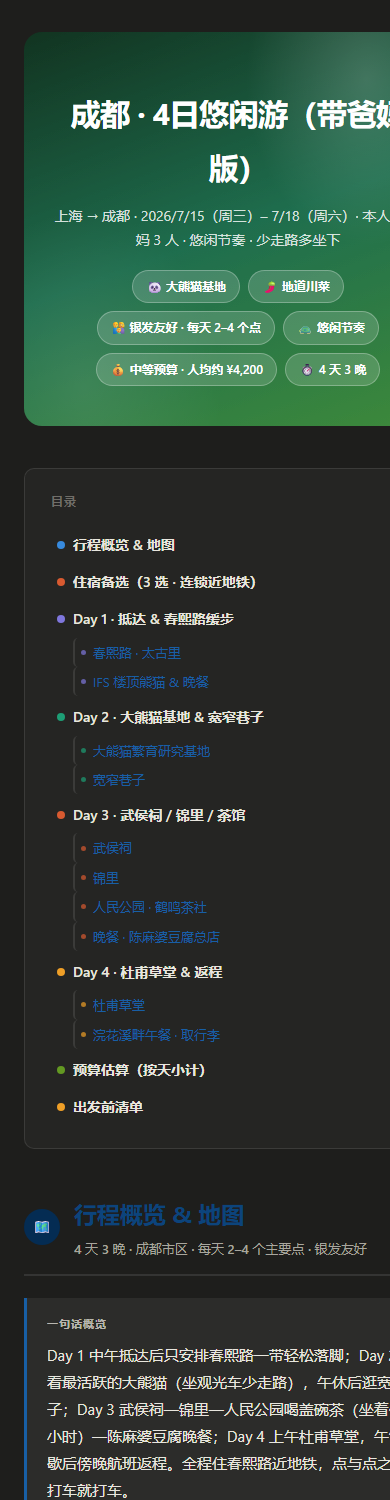
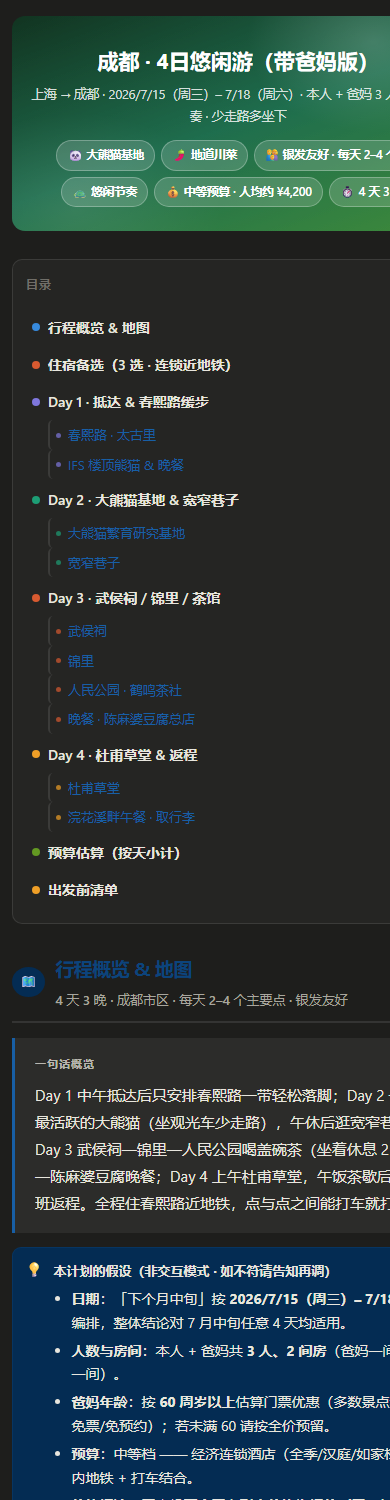
手机端适配: 640px 断点移动块 + 校验器第 7 检查 (用户实机反馈)
User tested on a real phone: the page rendered as raw desktop layout.
Only two tiny media rules existed (map height, two-col). Fix:

- design-system.md + example: canonical @user(max-width:640px) block —
  tighter paddings/typography, transport routes stack vertically with a
  ↓ connector instead of the horizontal arrow line, price-compare rows
  stack, floating nav becomes a full-width bottom sheet, and the real
  page-widening culprit fixed: .tpill/.chip/.h-rating were
  white-space:nowrap, so a long transit pill forced the whole page to
  ~480px+ on a 390px phone. Overflow hardening included.
- Verified live in a 390px same-origin iframe (Chrome): zero horizontal
  overflow, header/page rects within bounds. Headless 390px full-page
  renders captured for README.
- check_html.py check #7: viewport meta + a >=600px-breakpoint media
  block with >=10 rules (thin 580px-era blocks rejected). Replay: the
  new example passes; all historical artifacts flip to FAIL on mobile
  adaptation — the regression is now structurally caught.

diff --git a/examples/成都4日游行程.html b/examples/成都4日游行程.html
@@ -357,6 +357,53 @@ details[open] summary::before{transform:rotate(90deg);}
   text-transform:uppercase;letter-spacing:0.08em;
   padding:0 14px 5px;border-bottom:1px solid var(--border);margin-bottom:3px;
 }
+
+/* ── Mobile adaptation (≤640px) ── phones get tighter spacing, stacked transport
+   routes, wrapped price rows and a full-width floating nav. Required on every trip page;
+   check_html.py fails the build without it. */
+@media(max-width:640px){
+  .page{padding:16px 12px 76px;}
+  body>*:not(.page){padding-left:12px;padding-right:12px;}
+  .header{padding:30px 16px 24px;margin-bottom:28px;border-radius:13px;}
+  .header h1{font-size:21px;letter-spacing:0;line-height:1.35;}
+  .header .subtitle{font-size:12.5px;margin-bottom:13px;}
+  .tags{gap:6px;}
+  .tag{padding:4px 10px;font-size:11.5px;}
+  .toc{padding:14px 13px;margin-bottom:28px;}
+  .section{margin-bottom:38px;}
+  .section-header{gap:10px;margin-bottom:15px;padding-bottom:10px;}
+  .section-num{min-width:30px;height:30px;font-size:12.5px;}
+  .section h2{font-size:18.5px;}
+  .card{padding:14px 13px;}
+  .card h3{font-size:15.5px;}
+  .callout{padding:11px 11px;gap:9px;margin:11px 0;}
+  table{font-size:12.5px;}
+  th,td{padding:7px 7px;}
+  .poi .poi-head{gap:8px;}
+  .transport{padding:13px 13px;}
+  .transport .tr-route{flex-direction:column;align-items:flex-start;gap:3px;}
+  .transport .tr-node{display:flex;align-items:baseline;gap:8px;text-align:left;min-width:0;}
+  .transport .tr-node .t-time{font-size:16px;}
+  .transport .tr-arrow{flex:none;width:auto;text-align:left;border:none;padding-left:24px;}
+  .transport .tr-arrow span{position:static;background:none;padding:0;}
+  .transport .tr-arrow span::before{content:"↓ ";}
+  .pc-row{flex-direction:column;align-items:flex-start;gap:1px;padding:6px 0;
+    border-bottom:1px dotted var(--border);}
+  .pc-row:last-child{border-bottom:none;}
+  .transit{flex-wrap:wrap;}
+  .hotel{padding:12px 11px;}
+  .hotel .h-rating{margin-left:0;width:100%;}
+  .checklist{padding:11px 13px;}
+  #map{height:320px;}
+  #nav-btn{right:12px;bottom:12px;}
+  #nav-panel{left:12px;right:12px;width:auto;bottom:54px;max-height:55vh;}
+  html,body{max-width:100%;overflow-x:hidden;}
+  .transit .tpill,.chip,.hotel .h-rating,.meta-chip{white-space:normal;}
+  .transit{margin-left:0;margin-right:0;}
+  .header,.toc,.card,.callout,.transport,.hotel,.poi,.checklist,.day-meta,.tags,.price-compare{
+    max-width:100%;box-sizing:border-box;}
+  .header *,.card *,.callout *{max-width:100%;box-sizing:border-box;overflow-wrap:break-word;}
+}
 </style>
 </head>
 <body>

diff --git a/scripts/check_html.py b/scripts/check_html.py
@@ -19,6 +19,9 @@ Checks (each FAIL must be fixed before presenting the file):
                                table, and a .checklist wired to localStorage.
                                Step 5 being silently dropped is the skill's
                                most common real-run failure — this catches it.
+  7. Mobile adaptation         a viewport meta tag AND a max-width media
+                               query block (phones must not get the raw
+                               desktop layout).
 
 Exit code: 0 = clean, 1 = one or more FAILs.  Pure standard library.
 """
@@ -140,6 +143,20 @@ def check_travel_components(html):
     return problems
 
 
+def check_mobile(html):
+    problems = []
+    if not re.search(r'<meta\s+name="viewport"', html):
+        problems.append('no <meta name="viewport"> tag — phones will render the desktop layout zoomed out')
+    m = re.search(r"@media\s*\(\s*max-width\s*:\s*6\d{2}px\s*\)\s*\{(.*?)\n\}", html, re.S)
+    if not m:
+        problems.append("no phone-breakpoint @media (max-width:6xxpx) block — page is not adapted "
+                        "for narrow screens (the design system ships a canonical 640px block)")
+    elif m.group(1).count("{") < 10:
+        problems.append("the max-width @media block is too thin (<10 rules) — copy the full mobile "
+                        "block from references/design-system.md")
+    return problems
+
+
 def check_self_contained(html):
     problems = []
     for m in re.finditer(r'<img\b[^>]*\bsrc\s*=\s*"(https?://[^"]+)"', html, re.I):
@@ -174,6 +191,7 @@ def run(path):
         ("no leftover KaTeX", check_no_katex(html)),
         ("self-contained", check_self_contained(html)),
         ("travel components (hotel/budget/checklist)", check_travel_components(html)),
+        ("mobile adaptation (viewport + media query)", check_mobile(html)),
     ]:
         if probs:
             fails += 1

diff --git a/references/design-system.md b/references/design-system.md
@@ -431,6 +431,53 @@ Fill in the `TRIP` JS object (map data), the TOC, and the day sections. Keep the
 <script>if('scrollRestoration' in history) history.scrollRestoration = 'manual';</script>
 <style>
 /* PASTE FULL CSS HERE */
+
+/* ── Mobile adaptation (≤640px) ── phones get tighter spacing, stacked transport
+   routes, wrapped price rows and a full-width floating nav. Required on every trip page;
+   check_html.py fails the build without it. */
+@media(max-width:640px){
+  .page{padding:16px 12px 76px;}
+  body>*:not(.page){padding-left:12px;padding-right:12px;}
+  .header{padding:30px 16px 24px;margin-bottom:28px;border-radius:13px;}
+  .header h1{font-size:21px;letter-spacing:0;line-height:1.35;}
+  .header .subtitle{font-size:12.5px;margin-bottom:13px;}
+  .tags{gap:6px;}
+  .tag{padding:4px 10px;font-size:11.5px;}
+  .toc{padding:14px 13px;margin-bottom:28px;}
+  .section{margin-bottom:38px;}
+  .section-header{gap:10px;margin-bottom:15px;padding-bottom:10px;}
+  .section-num{min-width:30px;height:30px;font-size:12.5px;}
+  .section h2{font-size:18.5px;}
+  .card{padding:14px 13px;}
+  .card h3{font-size:15.5px;}
+  .callout{padding:11px 11px;gap:9px;margin:11px 0;}
+  table{font-size:12.5px;}
+  th,td{padding:7px 7px;}
+  .poi .poi-head{gap:8px;}
+  .transport{padding:13px 13px;}
+  .transport .tr-route{flex-direction:column;align-items:flex-start;gap:3px;}
+  .transport .tr-node{display:flex;align-items:baseline;gap:8px;text-align:left;min-width:0;}
+  .transport .tr-node .t-time{font-size:16px;}
+  .transport .tr-arrow{flex:none;width:auto;text-align:left;border:none;padding-left:24px;}
+  .transport .tr-arrow span{position:static;background:none;padding:0;}
+  .transport .tr-arrow span::before{content:"↓ ";}
+  .pc-row{flex-direction:column;align-items:flex-start;gap:1px;padding:6px 0;
+    border-bottom:1px dotted var(--border);}
+  .pc-row:last-child{border-bottom:none;}
+  .transit{flex-wrap:wrap;}
+  .hotel{padding:12px 11px;}
+  .hotel .h-rating{margin-left:0;width:100%;}
+  .checklist{padding:11px 13px;}
+  #map{height:320px;}
+  #nav-btn{right:12px;bottom:12px;}
+  #nav-panel{left:12px;right:12px;width:auto;bottom:54px;max-height:55vh;}
+  html,body{max-width:100%;overflow-x:hidden;}
+  .transit .tpill,.chip,.hotel .h-rating,.meta-chip{white-space:normal;}
+  .transit{margin-left:0;margin-right:0;}
+  .header,.toc,.card,.callout,.transport,.hotel,.poi,.checklist,.day-meta,.tags,.price-compare{
+    max-width:100%;box-sizing:border-box;}
+  .header *,.card *,.callout *{max-width:100%;box-sizing:border-box;overflow-wrap:break-word;}
+}
 </style>
 </head>
 <body>

diff --git a/README.md b/README.md
@@ -130,6 +130,8 @@ python3 scripts/check_html.py <输出>.html      # macOS/Linux
 
 ## 更新记录
 
+- **2026-06-12 · v0.8** — **手机端适配**(用户实机反馈:之前手机上是裸奔的桌面布局):设计系统新增完整的 640px 断点移动块——压缩页边距与字号、交通段路线纵向堆叠(↓ 替代横向箭头线)、比价行改纵排、通勤胶囊/章节徽章放开 nowrap(此前长胶囊把整页撑到 480px+)、悬浮导航改全宽底部抽屉、防溢出加固;390px 视口 iframe 实测零水平溢出。check_html.py 新增第 7 检查:viewport meta + ≥600px 断点且 ≥10 条规则的移动块,缺了直接 FAIL(历史产物回放:旧版全部翻转为 FAIL,正确)。
+
 - **2026-06-12 · v0.7** — Step 1 需求采集重写为 **grill 式访谈**(方法致谢 [grill-me](https://github.com/mattpocock/skills/blob/main/skills/productivity/grill-me/SKILL.md)):废除"一轮 ≤4 问收工"的克制式提问,改为**沿决策树分四层问透为止**——新增大交通是否已订、城际方式与红眼接受度、时间硬约束、证件状态、预算口径与硬上限、健康体力、行李托运、退改弹性等维度;每问必附推荐答案(嫌烦可整轮"都按推荐"),能 web_search 的绝不问用户,固定以「还有什么硬要求是我没问到的?」收口并回读确认。"直接安排"逃生门保留:全按推荐值填,假设清单原样进页面顶部 callout。
 
 - **2026-06-12 · v0.6** — 用户用吉祥官网订单页实测推翻了 v0.4 的"官网价即含税"假设:**国内全平台(含航司官网)列表价均为裸价,无一例外**(吉祥页头虽标"含税票价总价",订单页仍是 票面 ¥1,150 + 机建燃油 ¥200 = ¥1,350)。比价口径统一为「裸价 + 现查税费」后结论反转:本例**飞猪裸价最低**(HO1119 ¥1,120 / HO1060 ¥980),官网的价值修正为"独家班次显示 + 有券更低 + 改签直连"而非含税价。预算按真实总价重算 ¥11,600 → ¥12,620(人均约 ¥4,200)。